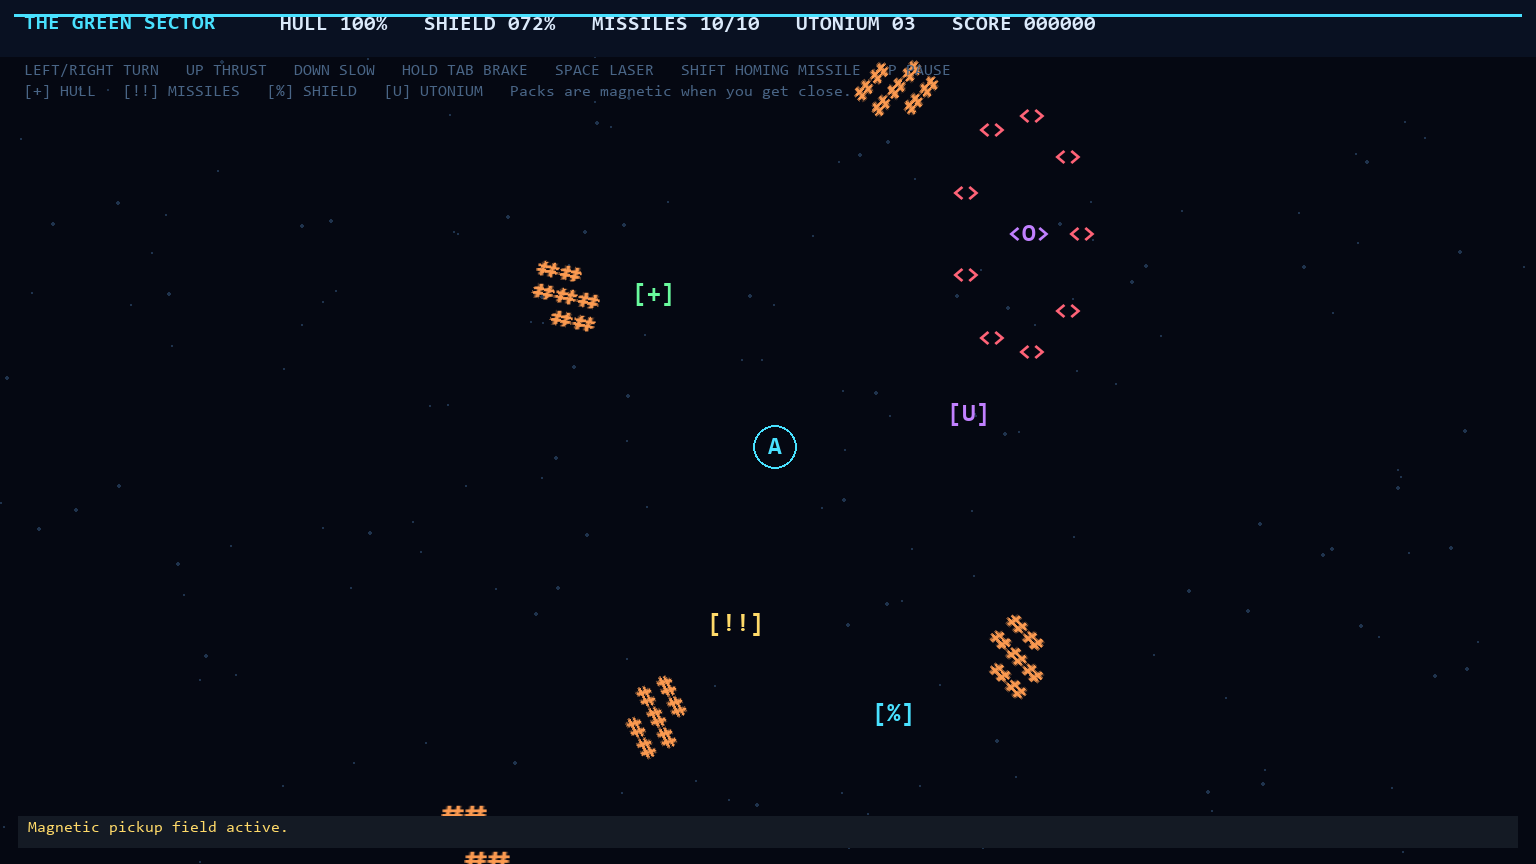
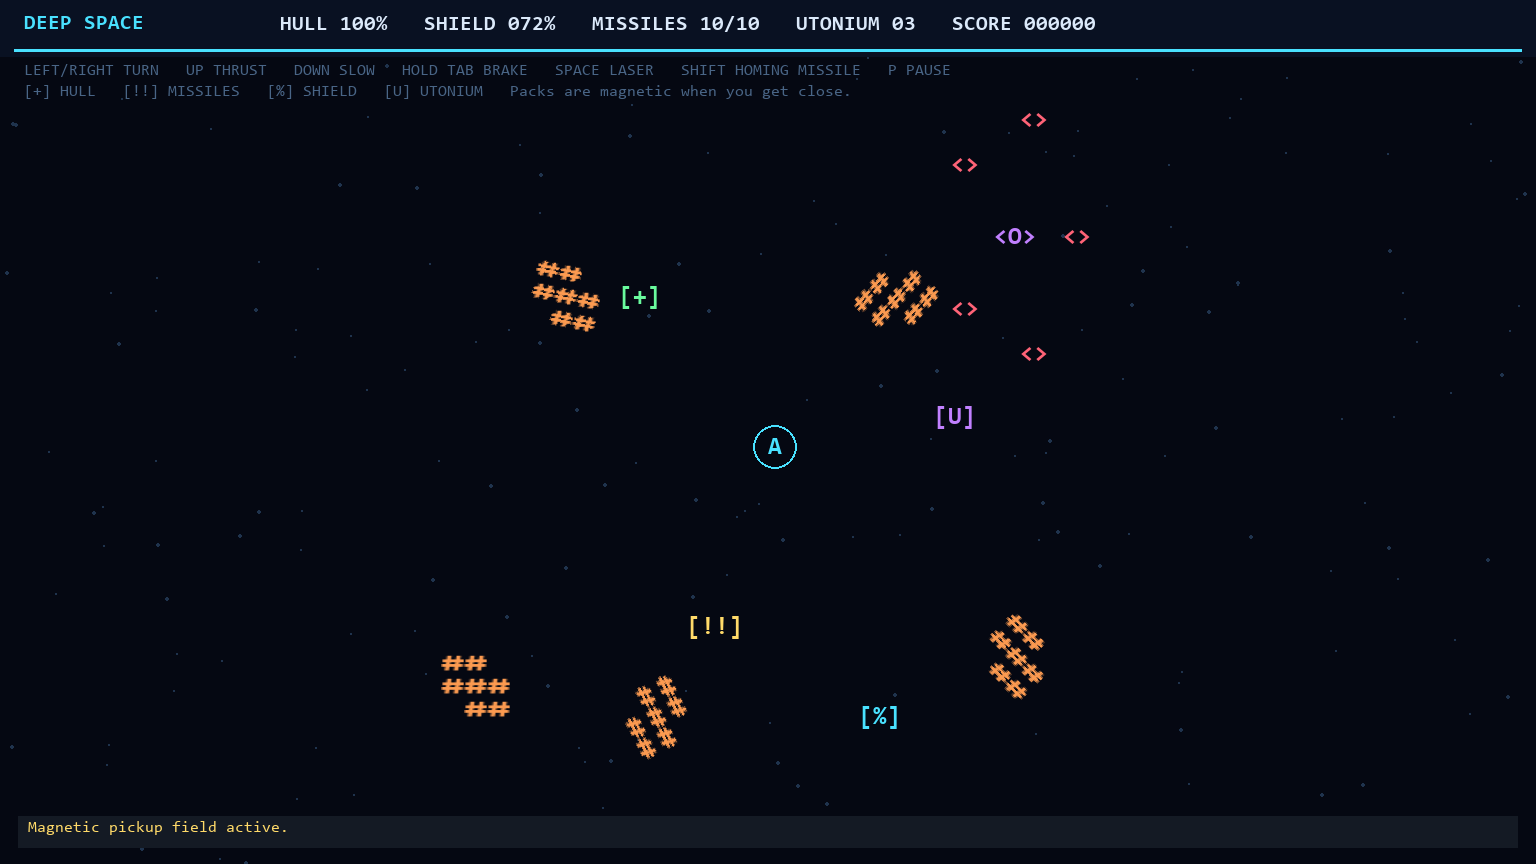
Bug Fixes and Changes

diff --git a/src/ascii_rpg/main.py b/src/ascii_rpg/main.py
@@ -173,7 +173,7 @@ class SpaceRPG:
     def __init__(self) -> None:
         pygame.mixer.pre_init(SAMPLE_RATE, -16, 1, 512)
         pygame.init()
-        pygame.display.set_caption("THE GREEN SECTOR — ASCII RPG")
+        pygame.display.set_caption("Deep Space — ASCII RPG")
         self.fullscreen = True
         self.screen = pygame.display.set_mode((0, 0), pygame.FULLSCREEN)
         self.clock = pygame.time.Clock()
@@ -212,16 +212,16 @@ class SpaceRPG:
         self.gameover_timer = 0.0
         self.mother_respawn = random.uniform(22.0, 34.0)
         self.mother = {"x": 27.0, "y": -8.0, "vx": -0.4, "vy": 0.25, "hp": 100.0, "wait": 2.0, "drop": False}
+        self.spawn_mother(initial=True)
         for _ in range(48):
             self.spawn_asteroid(initial=True)
         for _ in range(4):
             self.spawn_enemy(initial=True)
-        self.spawn_mother(initial=True)
         self.mode = "game"
         self.selection = 0
         self.notify("Left/right rotate; Up thrusts; Down slows; hold Tab for gradual braking. Space fires, Shift launches.", 6)
 
-    def spawn_asteroid(self, initial: bool = False) -> None:
+    def spawn_asteroid(self, initial: bool = False) -> bool:
         large = random.random() < 0.22
         cells: list[tuple[float, float]] = []
         if large:
@@ -238,14 +238,25 @@ class SpaceRPG:
                 [(-0.5, -0.5), (0.5, -0.5), (-0.5, 0.5), (0.5, 0.5)],
             ])
         rock = {"x": 0.0, "y": 0.0, "vx": random.uniform(-0.35, 0.35), "vy": random.uniform(-0.35, 0.35), "cells": cells, "hp": 2 if large else 1, "large": large, "angle": random.random() * math.tau, "spin": random.choice((-1, 1)) * random.uniform(0.35, 1.6)}
-        for _ in range(60):
+        placed = False
+        for _ in range(180):
             spawn_angle = random.random() * math.tau
             spawn_radius = random.uniform(16, 54) if initial else random.uniform(34, 58)
             rock["x"] = self.player.x + math.cos(spawn_angle) * spawn_radius
             rock["y"] = self.player.y + math.sin(spawn_angle) * spawn_radius
-            if all(distance(rock["x"], rock["y"], other["x"], other["y"]) >= self.asteroid_radius(rock) + self.asteroid_radius(other) + 0.25 for other in self.asteroids):
+            radius = self.asteroid_radius(rock)
+            clear = all(distance(rock["x"], rock["y"], other["x"], other["y"]) >= radius + self.asteroid_radius(other) + 0.25 for other in self.asteroids)
+            clear = clear and distance(rock["x"], rock["y"], self.player.x, self.player.y) >= radius + 1.7
+            if self.mother.get("hp", 0) > 0:
+                clear = clear and distance(rock["x"], rock["y"], self.mother["x"], self.mother["y"]) >= radius + 3.0
+            clear = clear and all(distance(rock["x"], rock["y"], ship["x"], ship["y"]) >= radius + self.ship_radius(ship) + 0.35 for ship in self.enemies)
+            clear = clear and all(distance(rock["x"], rock["y"], item["x"], item["y"]) >= radius + self.pickup_radius(item) + 0.35 for item in self.pickups)
+            if clear:
+                placed = True
                 break
-        self.asteroids.append(rock)
+        if placed:
+            self.asteroids.append(rock)
+        return placed
 
     def asteroid_cells(self, rock: dict) -> list[tuple[float, float]]:
         angle = rock.get("angle", 0.0)
@@ -290,6 +301,91 @@ class SpaceRPG:
                     second["vx"] += impulse * nx
                     second["vy"] += impulse * ny
 
+    def ship_radius(self, ship: dict) -> float:
+        return 1.7 if ship is self.mother else 1.05
+
+    @staticmethod
+    def pickup_radius(pickup: dict) -> float:
+        return 2.15 if pickup["kind"] == "missile" else 1.65
+
+    @staticmethod
+    def resolve_circles(first: dict, second: dict, first_radius: float, second_radius: float,
+                        second_fixed: bool = False, restitution: float = 0.72) -> bool:
+        """Separate overlapping circular bodies and bounce their velocities apart."""
+        dx, dy = second["x"] - first["x"], second["y"] - first["y"]
+        separation = math.hypot(dx, dy)
+        minimum = first_radius + second_radius
+        if separation >= minimum:
+            return False
+        if separation < 1e-6:
+            angle = random.random() * math.tau
+            nx, ny = math.cos(angle), math.sin(angle)
+            separation = 1e-6
+        else:
+            nx, ny = dx / separation, dy / separation
+        overlap = minimum - separation + 0.01
+        if second_fixed:
+            first["x"] -= nx * overlap
+            first["y"] -= ny * overlap
+        else:
+            first["x"] -= nx * overlap * 0.5
+            first["y"] -= ny * overlap * 0.5
+            second["x"] += nx * overlap * 0.5
+            second["y"] += ny * overlap * 0.5
+        first.setdefault("vx", 0.0)
+        first.setdefault("vy", 0.0)
+        second.setdefault("vx", 0.0)
+        second.setdefault("vy", 0.0)
+        relative_speed = (first["vx"] - second["vx"]) * nx + (first["vy"] - second["vy"]) * ny
+        if relative_speed > 0:
+            impulse = (1.0 + restitution) * relative_speed
+            if second_fixed:
+                first["vx"] -= impulse * nx
+                first["vy"] -= impulse * ny
+            else:
+                first["vx"] -= impulse * nx * 0.5
+                first["vy"] -= impulse * ny * 0.5
+                second["vx"] += impulse * nx * 0.5
+                second["vy"] += impulse * ny * 0.5
+        return True
+
+    def asteroid_avoidance(self, x: float, y: float, clearance: float) -> tuple[float, float]:
+        steer_x = steer_y = 0.0
+        for rock in self.asteroids:
+            dx, dy = x - rock["x"], y - rock["y"]
+            d = math.hypot(dx, dy)
+            safe_distance = self.asteroid_radius(rock) + clearance + 6.0
+            if 1e-6 < d < safe_distance:
+                strength = 7.0 * (safe_distance - d) / safe_distance
+                steer_x += dx / d * strength
+                steer_y += dy / d * strength
+        return steer_x, steer_y
+
+    def resolve_solid_collisions(self) -> None:
+        """Keep ships outside asteroid fields and separate ships from each other."""
+        ships = ([self.mother] if self.mother.get("hp", 0) > 0 else []) + self.enemies
+        for _ in range(2):
+            for ship in ships:
+                for rock in self.asteroids:
+                    self.resolve_circles(ship, rock, self.ship_radius(ship), self.asteroid_radius(rock), second_fixed=True, restitution=0.6)
+            for i, first in enumerate(ships):
+                for second in ships[i + 1:]:
+                    self.resolve_circles(first, second, self.ship_radius(first), self.ship_radius(second), restitution=0.5)
+
+    def bounce_pickups(self) -> None:
+        """Bounce packs off rocks, living ships, and one another; leave player collection clear."""
+        ships = ([self.mother] if self.mother.get("hp", 0) > 0 else []) + self.enemies
+        for _ in range(2):
+            for item in self.pickups:
+                radius = self.pickup_radius(item)
+                for rock in self.asteroids:
+                    self.resolve_circles(item, rock, radius, self.asteroid_radius(rock), second_fixed=True)
+                for ship in ships:
+                    self.resolve_circles(item, ship, radius, self.ship_radius(ship), second_fixed=True)
+            for i, first in enumerate(self.pickups):
+                for second in self.pickups[i + 1:]:
+                    self.resolve_circles(first, second, self.pickup_radius(first), self.pickup_radius(second))
+
     def draw_asteroid(self, rock: dict, screen_pos) -> None:
         cells = rock["cells"]
         min_x = min(cell[0] for cell in cells)
@@ -322,17 +418,39 @@ class SpaceRPG:
         self.shake_time = max(self.shake_time, seconds)
 
     def spawn_enemy(self, initial: bool = False) -> None:
-        a = random.random() * math.tau
-        d = random.uniform(18, 38) if initial else random.uniform(28, 44)
-        self.enemies.append({"x": self.player.x + math.cos(a) * d, "y": self.player.y + math.sin(a) * d, "vx": 0.0, "vy": 0.0, "hp": 3, "wait": random.uniform(0.7, 2.0)})
+        for _ in range(120):
+            a = random.random() * math.tau
+            d = random.uniform(18, 38) if initial else random.uniform(28, 44)
+            enemy = {"x": self.player.x + math.cos(a) * d, "y": self.player.y + math.sin(a) * d,
+                     "vx": 0.0, "vy": 0.0, "hp": 3, "wait": random.uniform(0.7, 2.0)}
+            radius = self.ship_radius(enemy)
+            clear = all(distance(enemy["x"], enemy["y"], rock["x"], rock["y"]) >= radius + self.asteroid_radius(rock) + 0.5 for rock in self.asteroids)
+            clear = clear and distance(enemy["x"], enemy["y"], self.player.x, self.player.y) >= radius + 1.8
+            if self.mother.get("hp", 0) > 0:
+                clear = clear and distance(enemy["x"], enemy["y"], self.mother["x"], self.mother["y"]) >= radius + self.ship_radius(self.mother) + 0.5
+            clear = clear and all(distance(enemy["x"], enemy["y"], other["x"], other["y"]) >= radius + self.ship_radius(other) + 0.35 for other in self.enemies)
+            clear = clear and all(distance(enemy["x"], enemy["y"], item["x"], item["y"]) >= radius + self.pickup_radius(item) + 0.35 for item in self.pickups)
+            if clear:
+                self.enemies.append(enemy)
+                return
 
     def spawn_mother(self, initial: bool = False) -> None:
         if not initial:
-            angle = random.random() * math.tau
-            radius = random.uniform(34, 46)
-            self.mother = {"x": self.player.x + math.cos(angle) * radius, "y": self.player.y + math.sin(angle) * radius,
-                           "vx": random.uniform(-0.45, 0.45), "vy": random.uniform(-0.45, 0.45),
-                           "hp": 100.0, "wait": 1.5, "drop": False}
+            placed = False
+            for _ in range(180):
+                angle = random.random() * math.tau
+                radius = random.uniform(34, 46)
+                x, y = self.player.x + math.cos(angle) * radius, self.player.y + math.sin(angle) * radius
+                clear = all(distance(x, y, rock["x"], rock["y"]) >= self.asteroid_radius(rock) + 11.0 for rock in self.asteroids)
+                clear = clear and all(distance(x, y, enemy["x"], enemy["y"]) >= self.ship_radius(enemy) + 9.0 for enemy in self.enemies)
+                clear = clear and all(distance(x, y, item["x"], item["y"]) >= self.pickup_radius(item) + 8.0 for item in self.pickups)
+                if distance(x, y, self.player.x, self.player.y) >= 22.0 and clear:
+                    self.mother = {"x": x, "y": y, "vx": random.uniform(-0.45, 0.45), "vy": random.uniform(-0.45, 0.45),
+                                   "hp": 100.0, "wait": 1.5, "drop": False}
+                    placed = True
+                    break
+            if not placed:
+                return
         for index in range(5):
             angle = math.tau * index / 5 + random.uniform(-0.18, 0.18)
             radius = random.uniform(3.2, 5.0)
@@ -482,6 +600,13 @@ class SpaceRPG:
         # Mother ship slowly drifts, and fires tracking missiles at close range.
         m = self.mother
         md = distance(p.x, p.y, m["x"], m["y"])
+        if m["hp"] > 0:
+            avoid_x, avoid_y = self.asteroid_avoidance(m["x"], m["y"], self.ship_radius(m))
+            m["vx"] += avoid_x * dt
+            m["vy"] += avoid_y * dt
+            mother_speed = math.hypot(m["vx"], m["vy"])
+            if mother_speed > 2.4:
+                m["vx"], m["vy"] = m["vx"] / mother_speed * 2.4, m["vy"] / mother_speed * 2.4
         m["x"] += m["vx"] * dt
         m["y"] += m["vy"] * dt
         m["wait"] -= dt
@@ -508,10 +633,16 @@ class SpaceRPG:
                 ty = m["y"] + math.sin(escort_angle) * e["escort_radius"]
                 desired_vx = m["vx"] + (tx - e["x"]) * 0.75
                 desired_vy = m["vy"] + (ty - e["y"]) * 0.75
+                avoid_x, avoid_y = self.asteroid_avoidance(e["x"], e["y"], self.ship_radius(e))
+                desired_vx += avoid_x
+                desired_vy += avoid_y
                 e["vx"] += (desired_vx - e["vx"]) * min(1, dt * 1.6)
                 e["vy"] += (desired_vy - e["vy"]) * min(1, dt * 1.6)
             else:
                 tx, ty = vector(angle, 4.1 if d > 8 else 1.2)
+                avoid_x, avoid_y = self.asteroid_avoidance(e["x"], e["y"], self.ship_radius(e))
+                tx += avoid_x
+                ty += avoid_y
                 e["vx"] += (tx - e["vx"]) * min(1, dt * 0.8)
                 e["vy"] += (ty - e["vy"]) * min(1, dt * 0.8)
             e["x"] += e["vx"] * dt
@@ -529,6 +660,7 @@ class SpaceRPG:
             rock["y"] += rock["vy"] * dt
             rock["angle"] = (rock.get("angle", 0.0) + rock.get("spin", 0.0) * dt) % math.tau
         self.bounce_asteroids()
+        self.resolve_solid_collisions()
         for shot in self.shots:
             if shot["kind"] == "missile" and shot.get("homing"):
                 target = shot.get("target")
@@ -638,8 +770,9 @@ class SpaceRPG:
             pickup["vy"] *= drag
             pickup["x"] += pickup["vx"] * dt
             pickup["y"] += pickup["vy"] * dt
+        self.bounce_pickups()
         for pickup in list(self.pickups):
-            if distance(p.x, p.y, pickup["x"], pickup["y"]) < 1.4:
+            if distance(p.x, p.y, pickup["x"], pickup["y"]) < self.pickup_radius(pickup) + 0.6:
                 if pickup["kind"] == "hull":
                     p.hull = min(100, p.hull + 30)
                     self.notify("Hull repair pack collected.")
@@ -660,6 +793,7 @@ class SpaceRPG:
         # A mother ship also periodically releases supplies nearby while alive.
         if not m["drop"] and random.random() < dt * 0.025:
             self.spawn_pickup(m["x"] + random.uniform(-2, 2), m["y"] + random.uniform(-2, 2), random.choice(("hull", "missile", "shield")))
+        self.bounce_pickups()
         for part in self.particles:
             part["x"] += part["vx"] * dt
             part["y"] += part["vy"] * dt
@@ -670,7 +804,8 @@ class SpaceRPG:
         self.enemies = [e for e in self.enemies if distance(p.x, p.y, e["x"], e["y"]) < 60]
         self.pickups = [item for item in self.pickups if distance(p.x, p.y, item["x"], item["y"]) < 60]
         while len(self.asteroids) < 45:
-            self.spawn_asteroid()
+            if not self.spawn_asteroid():
+                break
         if len(self.enemies) < 4 and random.random() < dt * 0.18:
             self.spawn_enemy()
         if p.hull <= 0:
@@ -704,12 +839,16 @@ class SpaceRPG:
         def pos(x: float, y: float) -> tuple[int, int]:
             return round(ox + x * self.cell_w), round(oy + y * self.cell_h)
 
+        def center_pos(x: float, y: float) -> tuple[int, int]:
+            px, py = pos(x, y)
+            return px + self.cell_w // 2, py + self.cell_h // 2
+
         for rock in self.asteroids:
             self.draw_asteroid(rock, pos)
         if self.mother["hp"] > 0:
-            self.draw_text("<O>", *pos(self.mother["x"], self.mother["y"]), PURPLE)
+            self.draw_text("<O>", *center_pos(self.mother["x"], self.mother["y"]), PURPLE, center=True)
         for e in self.enemies:
-            self.draw_text("<>", *pos(e["x"], e["y"]), RED)
+            self.draw_text("<>", *center_pos(e["x"], e["y"]), RED, center=True)
         for item in self.pickups:
             glyph, base_color = {
                 "hull": ("[+]", GREEN),
@@ -719,7 +858,7 @@ class SpaceRPG:
             }.get(item["kind"], ("[+]", GREEN))
             brightness = 1.0 if math.sin(item.get("phase", 0.0)) >= 0 else 0.35
             color = tuple(round(channel * brightness) for channel in base_color)
-            self.draw_text(glyph, *pos(item["x"], item["y"]), color)
+            self.draw_text(glyph, *center_pos(item["x"], item["y"]), color, center=True)
         for shot in self.shots:
             if shot["kind"] == "missile":
                 glyph = "*"
@@ -746,14 +885,15 @@ class SpaceRPG:
             self.screen.blit(ship_surface, ship_surface.get_rect(center=(center[0] + self.cell_w // 2, center[1] + self.cell_h // 2)))
 
         pygame.draw.rect(self.screen, PANEL, (0, 0, self.width, 57))
-        self.draw_text("THE GREEN SECTOR", 24, 13, CYAN, self.ui)
+        self.draw_text("DEEP SPACE", 24, 13, CYAN, self.ui)
         self.draw_text(f"HULL {int(p.hull):03d}%   SHIELD {int(p.shield):03d}%   MISSILES {p.missiles:02d}/10   UTONIUM {p.utonium:02d}   SCORE {self.score:06d}", 280, 14, WHITE, self.ui)
         self.draw_text("LEFT/RIGHT TURN   UP THRUST   DOWN SLOW   HOLD TAB BRAKE   SPACE LASER   SHIFT HOMING MISSILE   P PAUSE", 24, 63, DIM, self.small)
         self.draw_text("[+] HULL   [!!] MISSILES   [%] SHIELD   [U] UTONIUM   Packs are magnetic when you get close.", 24, 84, DIM, self.small)
         if self.message_time > 0:
             pygame.draw.rect(self.screen, (20, 26, 36), (18, self.height - 48, self.width - 36, 32))
             self.draw_text(self.message, 28, self.height - 44, YELLOW, self.small)
-        pygame.draw.rect(self.screen, CYAN, (14, 14, max(3, int((self.width - 28) * p.hull / 100)), 3))
+        pygame.draw.rect(self.screen, (26, 55, 75), (14, 49, self.width - 28, 3))
+        pygame.draw.rect(self.screen, CYAN, (14, 49, max(3, int((self.width - 28) * p.hull / 100)), 3))
         if p.hull < 20:
             jitter = random.randint(-3, 3)
             pulse = 150 + int(90 * abs(math.sin(self.elapsed * 12)))
@@ -764,7 +904,7 @@ class SpaceRPG:
         self.screen.fill(BG)
         for x, y, size in self.stars:
             pygame.draw.circle(self.screen, (31, 51, 77), (x, y), size)
-        self.draw_text("#  THE GREEN SECTOR  #", self.width // 2, self.height // 3 - 46, CYAN, self.font, True)
+        self.draw_text("#  DEEP SPACE  #", self.width // 2, self.height // 3 - 46, CYAN, self.font, True)
         self.draw_text(title, self.width // 2, self.height // 3 + 12, WHITE, self.ui, True)
         if subtitle:
             self.draw_text(subtitle, self.width // 2, self.height // 3 + 48, DIM, self.small, True)

diff --git a/README.md b/README.md
@@ -1,10 +1,10 @@
-# The Green Sector: ASCII RPG
+# Deep Space: ASCII RPG
 
 A full-screen, colorful ASCII space RPG built with Python and Pygame. The player ship is an aimable `A`; the sector contains drifting mother ships (`<O>`), escorting minion ships (`<>`), and tightly packed asteroid clusters (`#`) that rotate together as single rocks. Asteroids can be blasted apart and damage the ship on collision. Large asteroid impacts bounce the player backward. The game also features impact particles, screen shake, hull repair over time, and a low-hull visual and audio alarm.
 
 ## Screenshots
 
-![Main menu](screenshots/main-menu.png)
+![Deep Space main menu](screenshots/main-menu.png)
 
 ![Space combat and collectible packs](screenshots/gameplay.png)
 
@@ -35,7 +35,7 @@ python .\main.py
 - **P** or **Esc**: pause; Esc resumes from the pause menu
 - **F11**: toggle fullscreen
 
-Lasers damage asteroids, raiders, and mother ships. Missiles home toward hostile ships, never acquire asteroids as targets, and can also damage anything in their flight path. Asteroid clusters rotate as single rocks, spawn with clearance from other clusters, and bounce apart on collision. Destroyed asteroids sometimes release uncommon Utonium mineral packs.
+Lasers damage asteroids, raiders, and mother ships. Missiles home toward hostile ships, never acquire asteroids as targets, and can also damage anything in their flight path. Asteroid clusters rotate as single rocks, spawn with clearance from other objects, and bounce apart on collision. Mother ships and escorts steer around asteroid clusters. Packs bounce off asteroids, ships, and other packs, while remaining collectible by the player. Destroyed asteroids sometimes release uncommon Utonium mineral packs.
 
 Collectible packs blink in distinct colors and are pulled toward the player within magnetic range: green `[+]` restores hull, yellow `[!!]` adds missiles, cyan `[%]` activates a 100% shield that drains by 1% per second, and purple `[U]` adds Utonium to cargo. A shield blocks laser and missile damage but does not prevent asteroid collision damage. Hull integrity regenerates at 1% per second after three seconds without taking damage. Below 20% hull, the screen border flashes and an alarm repeats. When hull reaches zero, the ship bursts into particles, then a GAME OVER screen appears before returning to the main menu.
 
